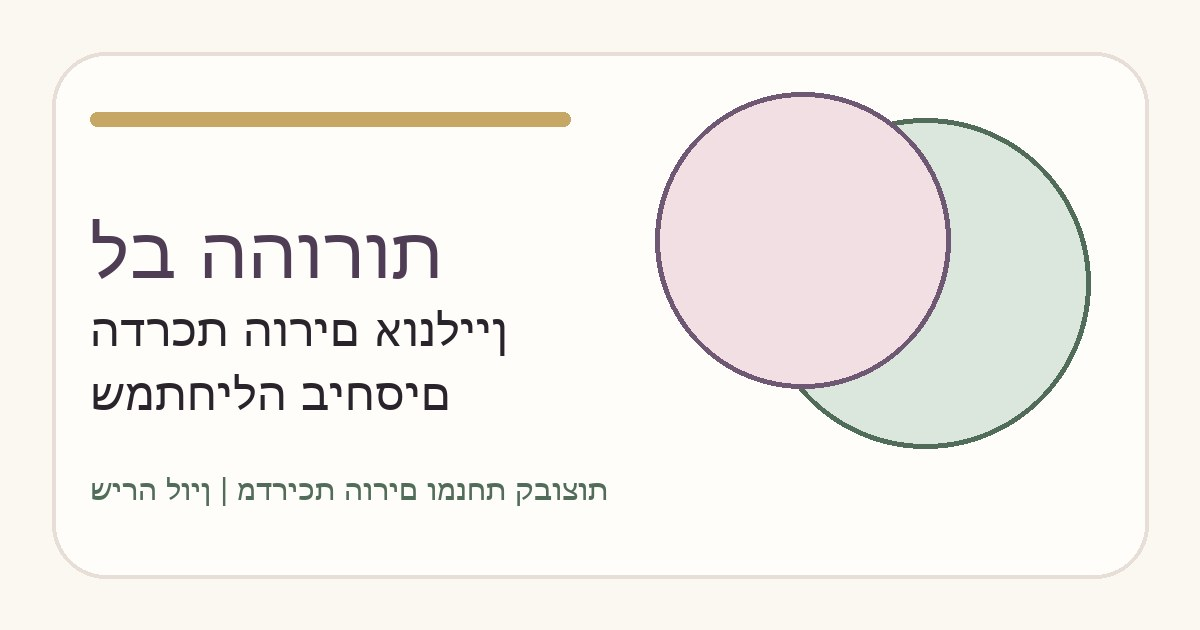
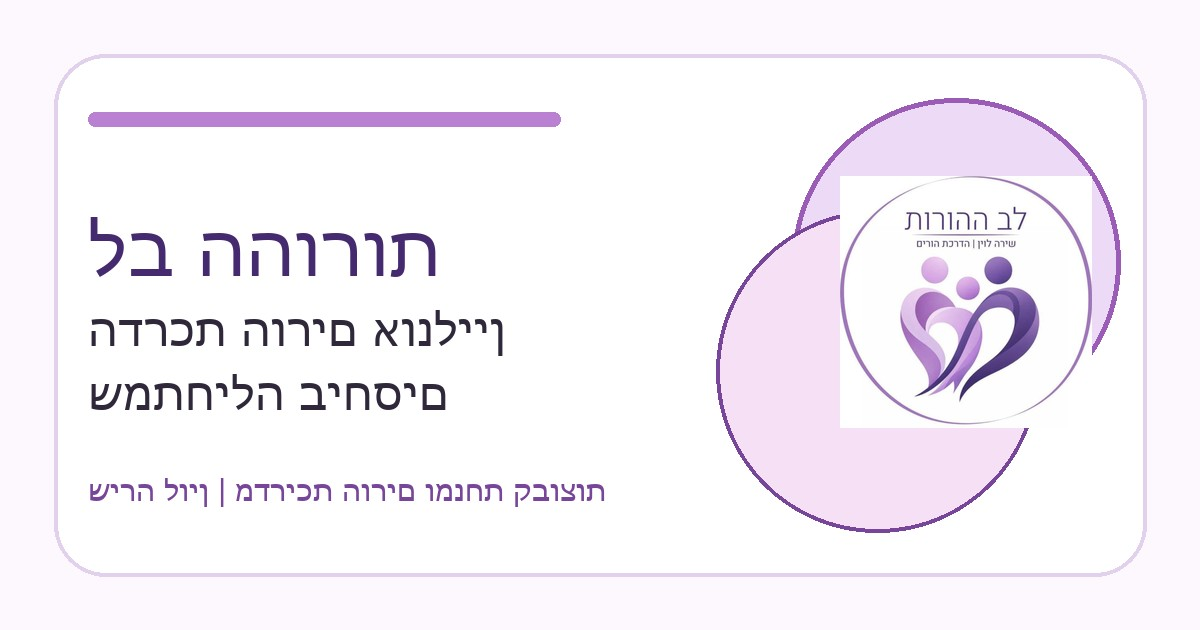
Update Lev Hahorut branding and social links

diff --git a/app/page.tsx b/app/page.tsx
@@ -5,12 +5,14 @@ import { FormEvent, useEffect, useMemo, useState } from "react";
 
 const whatsappMessage =
   "https://wa.me/972507532044?text=%D7%A9%D7%9C%D7%95%D7%9D%20%D7%A9%D7%99%D7%A8%D7%94%2C%20%D7%94%D7%92%D7%A2%D7%AA%D7%99%20%D7%93%D7%A8%D7%9A%20%D7%94%D7%9B%D7%A8%D7%98%D7%99%D7%A1%20%D7%A9%D7%9C%20%D7%9C%D7%91%20%D7%94%D7%94%D7%95%D7%A8%D7%95%D7%AA%20%D7%95%D7%90%D7%A9%D7%9E%D7%97%20%D7%9C%D7%AA%D7%90%D7%9D%20%D7%A9%D7%99%D7%97%D7%AA%20%D7%94%D7%99%D7%9B%D7%A8%D7%95%D7%AA";
+const instagramUrl = "https://www.instagram.com/shira_goldman_levin/";
+const facebookUrl = "https://www.facebook.com/shira.goldmanlevin?locale=he_IL";
 
 const trustItems = [
   "5 שנות ניסיון",
   "הכשרה במכון אדלר",
   "התמחות בהדרכת הורים למתבגרים",
-  "התמחות בהדרכת הורים לילדים על הרצף האוטיסטי",
+  "התמחות בליווי הורים לילדים על הרצף האוטיסטי",
   "ליווי בזום בכל הארץ",
 ];
 
@@ -108,6 +110,7 @@ const jsonLd = {
       },
       email: "shumi25@gmail.com",
       telephone: "+972507532044",
+      sameAs: [instagramUrl, facebookUrl],
     },
     {
       "@type": "ProfessionalService",
@@ -121,6 +124,7 @@ const jsonLd = {
         serviceUrl: "https://wa.me/972507532044",
         availableLanguage: "he",
       },
+      sameAs: [instagramUrl, facebookUrl],
     },
   ],
 };
@@ -218,12 +222,11 @@ export default function Home() {
       <header className="site-header">
         <div className="container header-inner">
           <a className="brand" href="#top" aria-label="לב ההורות, מעבר לראש העמוד">
-            {/* TODO: replace with final high-resolution transparent logo supplied by client */}
             <img
-              src="/assets/lev-hahorut-logo-placeholder.png"
+              src="/assets/lev-hahorut-logo-512.png"
               alt="לב ההורות - הדרכת הורים עם שירה לוין"
-              width="72"
-              height="72"
+              width="512"
+              height="512"
               className="brand-logo"
               decoding="async"
             />
@@ -500,7 +503,7 @@ export default function Home() {
               <ul className="check-list">
                 <li>הדרכת הורים והנחיית קבוצות במכון אדלר</li>
                 <li>התמחות בהדרכת הורים למתבגרים</li>
-                <li>התמחות בהדרכת הורים לילדים על הרצף האוטיסטי</li>
+                <li>התמחות בליווי הורים לילדים על הרצף האוטיסטי</li>
                 <li>5 שנות ניסיון בליווי הורים ומשפחות</li>
               </ul>
             </div>
@@ -586,7 +589,7 @@ export default function Home() {
                   </a>
                 </li>
                 <li>
-                  <strong>אימייל:</strong>{" "}
+                  <strong>דוא״ל:</strong>{" "}
                   <a href="mailto:shumi25@gmail.com">shumi25@gmail.com</a>
                 </li>
                 <li>
@@ -603,7 +606,7 @@ export default function Home() {
                 <li>
                   <strong>אינסטגרם:</strong>{" "}
                   <a
-                    href="https://www.instagram.com/shira_goldman_levin/"
+                    href={instagramUrl}
                     target="_blank"
                     rel="noopener noreferrer"
                     data-track="open_instagram"
@@ -612,7 +615,15 @@ export default function Home() {
                   </a>
                 </li>
                 <li>
-                  <strong>פייסבוק:</strong> Shira Goldman-Levin
+                  <strong>פייסבוק:</strong>{" "}
+                  <a
+                    href={facebookUrl}
+                    target="_blank"
+                    rel="noopener noreferrer"
+                    data-track="open_facebook"
+                  >
+                    Shira Goldman-Levin
+                  </a>
                 </li>
               </ul>
             </div>
@@ -680,8 +691,8 @@ export default function Home() {
             <h3>התאמות שבוצעו בפועל</h3>
             <p>
               העמוד נבנה ב-HTML סמנטי, כולל כותרות מסודרות, קישור דילוג לתוכן
-              הראשי, מצבי פוקוס ברורים, labels גלויים לשדות, alt לתמונות, ניווט
-              מקלדת, תמיכה בהעדפת הפחתת תנועה ותפריט נגישות בסיסי.
+              הראשי, מצבי פוקוס ברורים, תוויות גלויות לשדות, טקסט חלופי לתמונות,
+              ניווט מקלדת, תמיכה בהעדפת הפחתת תנועה ותפריט נגישות בסיסי.
             </p>
             <h3>ניווט ושימוש</h3>
             <p>
@@ -691,12 +702,12 @@ export default function Home() {
             <h3>דיווח על קושי</h3>
             <p>
               אם נתקלתם בקושי בשימוש באתר, ניתן לפנות לשירה לוין בטלפון
-              050-753-2044 או במייל shumi25@gmail.com.
+              050-753-2044 או בדוא״ל shumi25@gmail.com.
             </p>
             <h3>מגבלות קיימות</h3>
             <p>
-              בשלב זה תמונות התדמית והלוגו הם placeholders זמניים. לאחר קבלת חומרי
-              המותג הסופיים יש לבדוק שוב את הטקסט החלופי, משקל הקבצים והתצוגה.
+              בשלב זה תמונות התדמית הן מצייני מקום זמניים. לאחר קבלת חומרי המותג
+              הסופיים יש לבדוק שוב את הטקסט החלופי, משקל הקבצים והתצוגה.
             </p>
             <p className="updated">תאריך עדכון: 16 ביולי 2026</p>
           </div>
@@ -707,8 +718,8 @@ export default function Home() {
             {/* TODO: legal review of privacy policy before publishing */}
             <h2 id="privacy-title">מדיניות פרטיות</h2>
             <p>
-              הטופס באתר מיועד לאפשר חזרה לפונים ומתן מידע על שירותי הדרכת ההורים
-              של לב ההורות.
+              הטופס באתר מיועד לאפשר יצירת קשר חוזר עם פונים ומתן מידע על שירותי
+              הדרכת ההורים של לב ההורות.
             </p>
             <h3>איזה מידע נאסף</h3>
             <p>

diff --git a/app/globals.css b/app/globals.css
@@ -1,18 +1,20 @@
 @import "tailwindcss";
 
 :root {
-  --cream: #fbf7f1;
-  --warm-white: #fffdf9;
-  --ink: #29242b;
-  --muted: #665d66;
-  --purple: #6f5874;
-  --purple-dark: #4f3d55;
-  --powder: #f2dfe4;
-  --sage: #dbe6dc;
-  --sage-dark: #526c5a;
-  --gold: #c6a765;
-  --border: #e8ded8;
-  --shadow: 0 18px 45px rgb(79 61 85 / 0.11);
+  --cream: #fcf8fd;
+  --warm-white: #fffefd;
+  --ink: #2d2738;
+  --muted: #65566f;
+  --purple: #8d55b1;
+  --purple-dark: #4a2a73;
+  --powder: #f3dcf6;
+  --powder-strong: #e6b5ee;
+  --lavender: #eee2f6;
+  --sage: #efe7f5;
+  --sage-dark: #75479c;
+  --gold: #b981d1;
+  --border: #eadcf1;
+  --shadow: 0 18px 45px rgb(74 42 115 / 0.12);
   --radius: 22px;
   --user-font-scale: 1;
 }
@@ -144,8 +146,8 @@ textarea {
   position: sticky;
   top: 0;
   z-index: 100;
-  border-bottom: 1px solid rgb(232 222 216 / 0.9);
-  background: rgb(255 253 249 / 0.94);
+  border-bottom: 1px solid rgb(234 220 241 / 0.9);
+  background: rgb(255 254 253 / 0.94);
   backdrop-filter: blur(14px);
 }
 
@@ -167,10 +169,12 @@ textarea {
 }
 
 .brand-logo {
-  width: 46px;
-  height: 46px;
-  border-radius: 14px;
+  width: 54px;
+  height: 54px;
+  border-radius: 50%;
   object-fit: contain;
+  background: #fff;
+  box-shadow: 0 6px 16px rgb(74 42 115 / 0.12);
 }
 
 .brand strong,
@@ -268,8 +272,8 @@ textarea {
   position: relative;
   overflow: hidden;
   background:
-    linear-gradient(135deg, rgb(242 223 228 / 0.46), transparent 34%),
-    linear-gradient(315deg, rgb(219 230 220 / 0.55), transparent 38%),
+    linear-gradient(135deg, rgb(230 181 238 / 0.42), transparent 34%),
+    linear-gradient(315deg, rgb(238 226 246 / 0.8), transparent 38%),
     var(--cream);
 }
 
@@ -363,7 +367,7 @@ p {
   margin: 0;
   border: 1px solid var(--border);
   border-radius: var(--radius);
-  background: #fff;
+  background: linear-gradient(180deg, #fff, #fdf9ff);
   box-shadow: var(--shadow);
 }
 
@@ -406,7 +410,7 @@ p {
 }
 
 .tinted-section {
-  background: linear-gradient(90deg, rgb(219 230 220 / 0.6), rgb(242 223 228 / 0.36));
+  background: linear-gradient(90deg, rgb(238 226 246 / 0.82), rgb(243 220 246 / 0.56));
 }
 
 .section-heading {
@@ -439,7 +443,7 @@ p {
   border: 1px solid var(--border);
   border-radius: var(--radius);
   background: #fff;
-  box-shadow: 0 10px 30px rgb(79 61 85 / 0.06);
+  box-shadow: 0 10px 30px rgb(74 42 115 / 0.07);
 }
 
 .card {
@@ -472,7 +476,9 @@ p {
 }
 
 .service-highlight {
-  background: var(--purple-dark);
+  background:
+    linear-gradient(135deg, rgb(74 42 115 / 0.97), rgb(124 68 171 / 0.94)),
+    var(--purple-dark);
 }
 
 .service-highlight h2,
@@ -582,7 +588,7 @@ p {
 
 .final-cta {
   background:
-    linear-gradient(135deg, rgb(111 88 116 / 0.92), rgb(79 61 85 / 0.96)),
+    linear-gradient(135deg, rgb(141 85 177 / 0.92), rgb(74 42 115 / 0.97)),
     var(--purple-dark);
   text-align: center;
 }
@@ -630,7 +636,7 @@ input,
 textarea {
   width: 100%;
   min-height: 48px;
-  border: 1px solid #cfc2c9;
+  border: 1px solid #d9c4e5;
   border-radius: 14px;
   background: #fff;
   color: var(--ink);
@@ -662,7 +668,7 @@ textarea {
 }
 
 .form-status.success {
-  color: var(--sage-dark);
+  color: var(--purple-dark);
 }
 
 .form-status.error {
@@ -708,7 +714,7 @@ textarea {
 }
 
 .accessibility-trigger {
-  box-shadow: 0 10px 24px rgb(41 36 43 / 0.12);
+  box-shadow: 0 10px 24px rgb(74 42 115 / 0.14);
 }
 
 .accessibility-menu {
@@ -716,7 +722,7 @@ textarea {
   gap: 8px;
   border: 1px solid var(--border);
   border-radius: 18px;
-  background: rgb(255 253 249 / 0.98);
+  background: rgb(255 254 253 / 0.98);
   padding: 12px;
   box-shadow: var(--shadow);
 }
@@ -737,19 +743,19 @@ textarea {
   justify-content: center;
   min-height: 50px;
   border-radius: 999px;
-  background: var(--sage-dark);
+  background: var(--purple-dark);
   color: #fff;
   padding: 13px 18px;
   font-weight: 900;
   line-height: 1.25;
   text-align: center;
   text-decoration: none;
-  box-shadow: 0 14px 30px rgb(82 108 90 / 0.22);
+  box-shadow: 0 14px 30px rgb(74 42 115 / 0.24);
 }
 
 .sticky-whatsapp:hover {
   color: #fff;
-  background: #425e49;
+  background: #6f3ea0;
 }
 
 .site-footer {

diff --git a/app/layout.tsx b/app/layout.tsx
@@ -39,8 +39,8 @@ export const metadata: Metadata = {
     images: ["/assets/lev-hahorut-og-placeholder.jpg"],
   },
   icons: {
-    icon: "/favicon.svg",
-    shortcut: "/favicon.svg",
+    icon: "/assets/lev-hahorut-logo-512.png",
+    shortcut: "/assets/lev-hahorut-logo-512.png",
   },
 };
 
